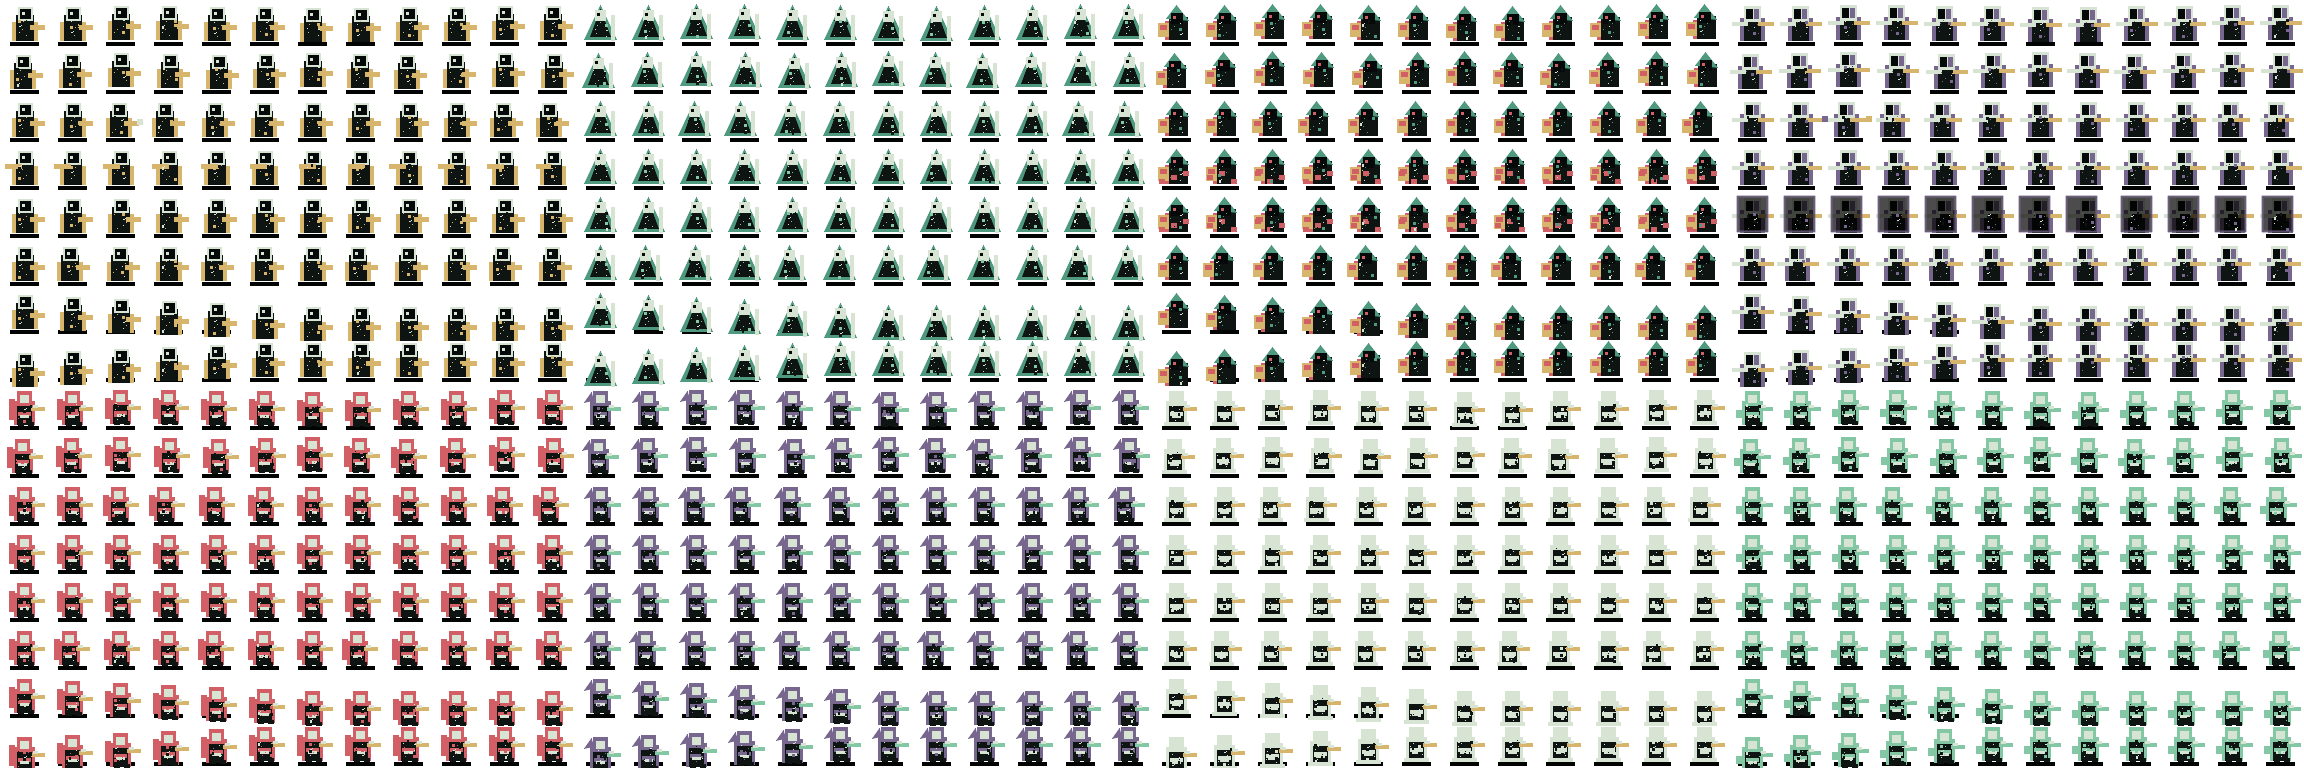
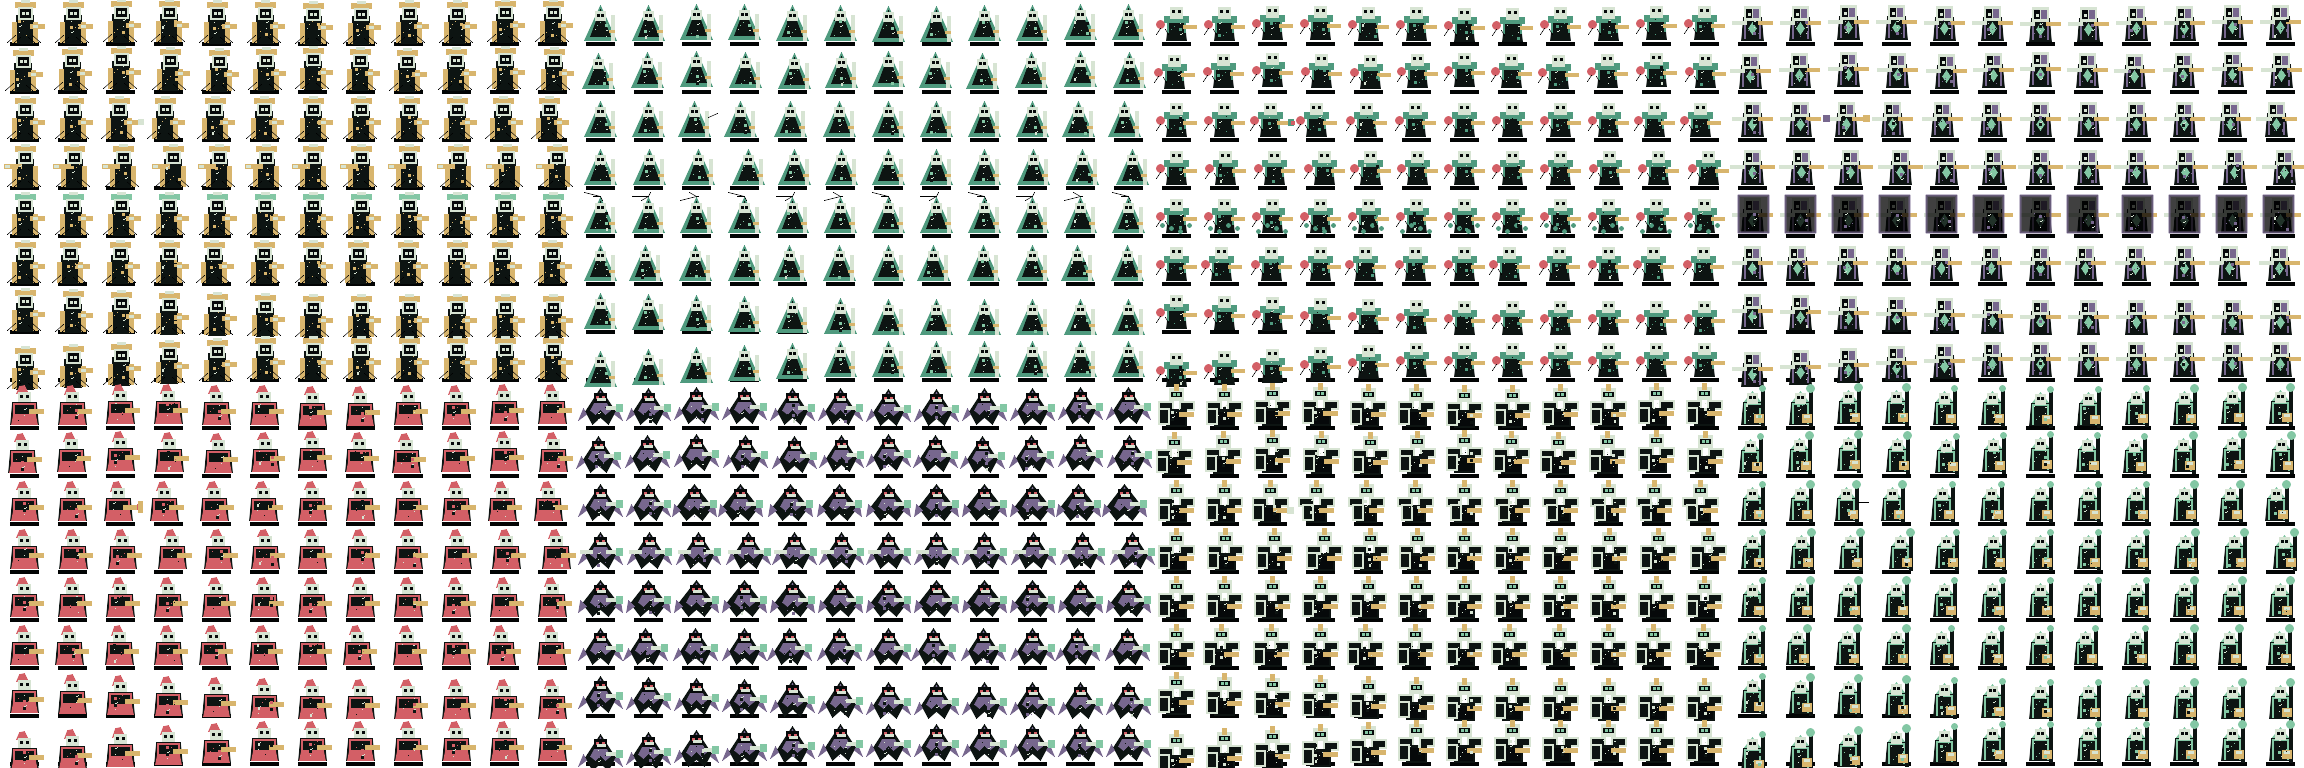
feat: distinct character and summon sprites with full animation states

Changed region(s): [[0.0, 0.0, 1.0, 1.0], [0.2812, 0.1875, 0.375, 0.25]]

diff --git a/src/game.ts b/src/game.ts
@@ -123,6 +123,9 @@ export type Orbital = {
   kind: SummonKind;
   attackCooldown: number;
   attackFlash: number;
+  // Animation state: when the summon materialized and how long it has left before dissolving.
+  spawnedAt?: number;
+  dying?: number;
 };
 
 type SummonKind = "wisp" | "hound" | "turret" | "drone" | "mite" | "blade" | "wasp" | "chakram" | "orb";
@@ -169,6 +172,7 @@ type Player = {
   invuln: number;
   souls: number;
   orbitals: Orbital[];
+  moving: boolean;
 };
 
 export type Game = {
@@ -1219,7 +1223,8 @@ export const createGame = (loadout: LoadoutConfig = DEFAULT_LOADOUT): Game => {
       dashCooldown: 0,
       invuln: 22.5,
       souls: 0,
-      orbitals: []
+      orbitals: [],
+      moving: false
     },
     enemies: [],
     bullets: [],
@@ -2093,6 +2098,7 @@ export const stepGame = (game: Game, input: InputState, dt: number): boolean => 
 
   const moveLen = len(input.moveX, input.moveY);
   const moving = Math.abs(input.moveX) + Math.abs(input.moveY) > 0.03;
+  player.moving = moving;
   if (moving) {
     player.x += (input.moveX / moveLen) * player.speed * dt;
     player.y += (input.moveY / moveLen) * player.speed * dt;
@@ -2708,6 +2714,18 @@ const summonAttackProfiles: Record<SummonKind, {
   orb: { cooldown: 0.66, damageMultiplier: 1, speed: 380, life: 0.86, radius: 4, element: "void" }
 };
 
+const summonBurstColors: Record<SummonKind, string> = {
+  wisp: "#83C7A4",
+  hound: "#D8B56D",
+  turret: "#D7E4D3",
+  drone: "#83C7A4",
+  mite: "#D35F66",
+  blade: "#77678E",
+  wasp: "#D8B56D",
+  chakram: "#77678E",
+  orb: "#83C7A4"
+};
+
 export const permanentSummonKinds = new Set<SummonKind>(["wisp", "hound", "turret", "drone", "blade"]);
 const SCYTHE_ORBIT_SPEED = 2;
 const SUMMON_ORBIT_SPEED = { min: 1.6, max: 2.7 };
@@ -2749,12 +2767,23 @@ const updateOrbitals = (game: Game, dt: number) => {
   arrangeScytheFormation(player.orbitals, game.time * SCYTHE_ORBIT_SPEED * scytheHaste);
   for (let i = player.orbitals.length - 1; i >= 0; i -= 1) {
     const orbital = player.orbitals[i];
+    if (orbital.dying !== undefined) {
+      orbital.dying -= dt;
+      if (orbital.dying <= 0) player.orbitals.splice(i, 1);
+      continue;
+    }
     orbital.angle += orbital.speed * (orbital.attackSpeed ?? 1) * dt;
     if (orbital.life !== null) orbital.life -= dt;
     orbital.attackCooldown = Math.max(0, orbital.attackCooldown - dt);
     orbital.attackFlash = Math.max(0, orbital.attackFlash - dt);
     const x = player.x + Math.cos(orbital.angle) * orbital.distance;
     const y = player.y + Math.sin(orbital.angle) * orbital.distance;
+    if (orbital.life !== null && orbital.life <= 0) {
+      orbital.dying = 0.5;
+      orbital.life = null;
+      burst(game, x, y, summonBurstColors[orbital.kind], 8, 3);
+      continue;
+    }
     const target = nearestEnemy(game, x, y);
     if (target && orbital.attackCooldown <= 0) fireSummonAttack(game, orbital, x, y, target);
     for (const enemy of game.enemies) {
@@ -2763,7 +2792,6 @@ const updateOrbitals = (game: Game, dt: number) => {
         if (has(game, "conductor") && Math.random() < 0.08) chainLightning(game, x, y, 66, 4 * player.lightningDamage);
       }
     }
-    if (orbital.life !== null && orbital.life <= 0) player.orbitals.splice(i, 1);
   }
 };
 
@@ -3053,7 +3081,8 @@ const spawnOrbital = (game: Game, damage: number, life: number, kind: SummonKind
     attackSpeed: summonHasteMultiplier(game),
     kind,
     attackCooldown: 0,
-    attackFlash: 0
+    attackFlash: 0,
+    spawnedAt: game.time
   });
   if (has(game, "twin_spawn") && player.orbitals.length < cap && Math.random() < 0.5) {
     player.orbitals.push({
@@ -3065,7 +3094,8 @@ const spawnOrbital = (game: Game, damage: number, life: number, kind: SummonKind
       attackSpeed: summonHasteMultiplier(game),
       kind,
       attackCooldown: 0,
-      attackFlash: 0
+      attackFlash: 0,
+      spawnedAt: game.time
     });
   }
   arrangeScytheFormation(player.orbitals, game.time * SCYTHE_ORBIT_SPEED);

diff --git a/src/rendering/atlasRenderer.ts b/src/rendering/atlasRenderer.ts
@@ -195,7 +195,8 @@ const drawWorld = (ctx: CanvasRenderingContext2D, game: Game, camera: { x: numbe
   for (const orbital of game.player.orbitals) {
     const x = game.player.x + Math.cos(orbital.angle) * orbital.distance;
     const y = game.player.y + Math.sin(orbital.angle) * orbital.distance;
-    const animation = orbital.attackFlash > 0 ? "attack" : "move";
+    const spawnElapsed = orbital.spawnedAt === undefined ? Number.POSITIVE_INFINITY : (game.time - orbital.spawnedAt) * 1000;
+    const animation = orbital.dying !== undefined ? "death" : orbital.attackFlash > 0 ? "attack" : spawnElapsed < 420 ? "spawn" : "move";
     const size = orbital.kind === "blade" ? 72 : 50;
     drawSprite(ctx, atlases, artManifest.summons[orbital.kind], x, y, size, animation, stateElapsed(orbital, animation, game.time), "summon", 1, orbital.kind === "blade" || orbital.kind === "chakram" ? orbital.angle : 0);
   }
@@ -208,7 +209,7 @@ const drawWorld = (ctx: CanvasRenderingContext2D, game: Game, camera: { x: numbe
   }
 
   const player = game.player;
-  const playerAnimation: AnimationId = player.activeTimer > 0 ? "active" : player.reload > 0 ? "reload" : player.cooldown > 0 ? "attack" : "move";
+  const playerAnimation: AnimationId = player.activeTimer > 0 ? "active" : player.reload > 0 ? "reload" : player.cooldown > 0 ? "attack" : player.moving ? "move" : "idle";
   drawSprite(ctx, atlases, artManifest.characters[player.characterId], player.x, player.y, 48, playerAnimation, stateElapsed(player, playerAnimation, game.time), "player", player.invuln > 0 ? 0.8 : 1);
   const weaponAnimation: AnimationId = player.activeTimer > 0 ? "active" : player.reload > 0 ? "reload" : player.cooldown > 0 ? "attack" : "idle";
   drawSprite(ctx, atlases, artManifest.weapons[player.weaponId], player.x + 14, player.y - 12, 38, weaponAnimation, stateElapsed(player, weaponAnimation, game.time), "summon");

diff --git a/src/game.test.ts b/src/game.test.ts
@@ -154,6 +154,39 @@ describe("game core", () => {
     expect(game.player.orbitals[0].attackCooldown).toBeCloseTo(0.54 / 1.5, 2);
   });
 
+  it("tracks whether the player is moving so the renderer can pick idle vs move", () => {
+    const game = createGame();
+    expect(game.player.moving).toBe(false);
+    stepGame(game, { ...idleInput, moveX: 1, moveY: 0 }, 0.016);
+    expect(game.player.moving).toBe(true);
+    stepGame(game, idleInput, 0.016);
+    expect(game.player.moving).toBe(false);
+  });
+
+  it("animates temporary summons through spawn and death instead of vanishing instantly", () => {
+    const game = createGame();
+    game.enemies = [];
+    game.player.orbitals.push({
+      angle: 0,
+      distance: 40,
+      damage: 8,
+      life: 0.02,
+      speed: 2,
+      kind: "mite",
+      attackCooldown: 0,
+      attackFlash: 0,
+      spawnedAt: game.time
+    });
+
+    stepGame(game, idleInput, 0.03);
+
+    expect(game.player.orbitals[0].dying).toBeDefined();
+    expect(game.player.orbitals[0].life).toBeNull();
+    expect(game.particles.length).toBeGreaterThan(0);
+    for (let frame = 0; frame < 40; frame += 1) stepGame(game, idleInput, 0.03);
+    expect(game.player.orbitals).toHaveLength(0);
+  });
+
   it("applies the core movement, weapon, and summon stat upgrades", () => {
     const game = createGame({ characterId: "lyra", weaponId: "revolver" });
     const before = {

diff --git a/src/art/manifest.test.ts b/src/art/manifest.test.ts
@@ -52,10 +52,10 @@ describe("art manifest", () => {
 
   it("provides the complete first-wave animation vocabulary", () => {
     const actorClips = ["idle", "move", "attack", "reload", "active", "hit", "death", "select"];
-    for (const id of ["saint", "ilya", "nox", "mira"] as const) {
+    for (const id of allArtEntityIds.characterIds) {
       expect(artManifest.characters[id].animations.map(({ id: clip }) => clip)).toEqual(actorClips);
     }
-    for (const id of ["wisp", "hound", "turret", "mite", "blade"] as const) {
+    for (const id of allArtEntityIds.summonIds) {
       expect(artManifest.summons[id].animations.map(({ id: clip }) => clip)).toEqual(["spawn", "idle", "move", "attack", "hit", "death"]);
     }
     for (const sprite of Object.values(artManifest.enemies)) {

diff --git a/docs/art-reference/README.md b/docs/art-reference/README.md
@@ -5,3 +5,9 @@
 The remaining compact runtime atlases and PNG PWA icons are produced by `scripts/generate-art-atlases.mjs`. Regenerate them with `node scripts/generate-art-atlases.mjs` when their source geometry changes.
 
 `sprite-detail-reference.png` is an original art-direction sheet generated for the second-resolution atlas pass. It establishes the cracked-bone, tarnished-brass, stitched-cloth, cathedral-stone, and occult-machine material vocabulary translated into the deterministic runtime generator. The production atlases remain grid-authored so every animation frame, pivot, and transparent boundary is exact.
+
+## Character and summon coverage
+
+All 8 characters and 9 summons have authored 48px atlas sprites with a full animation vocabulary. Characters cover `idle`, `move`, `attack`, `reload`, `active`, `hit`, `death`, and `select`; summons cover `spawn`, `idle`, `move`, `attack`, `hit`, and `death`. Each character has a distinct silhouette (halo, storm-nun hood, brood coat, mirror cloak, flame crest, crow wings, bastion plate, and staff beacon), and each summon has per-kind motion (wisp flicker, hound chomp, turret kick, drone rotor, mite legs, scythe slash, wasp wings, chakram spin, orb pulse).
+
+At runtime the renderer plays summon `spawn` when an orbital is created and `death` with a particle burst before temporary summons are removed; the player picks `idle` when standing still instead of always looping `move`. Death/spawn offsets are clamped so no frame ever bleeds across its atlas cell.
